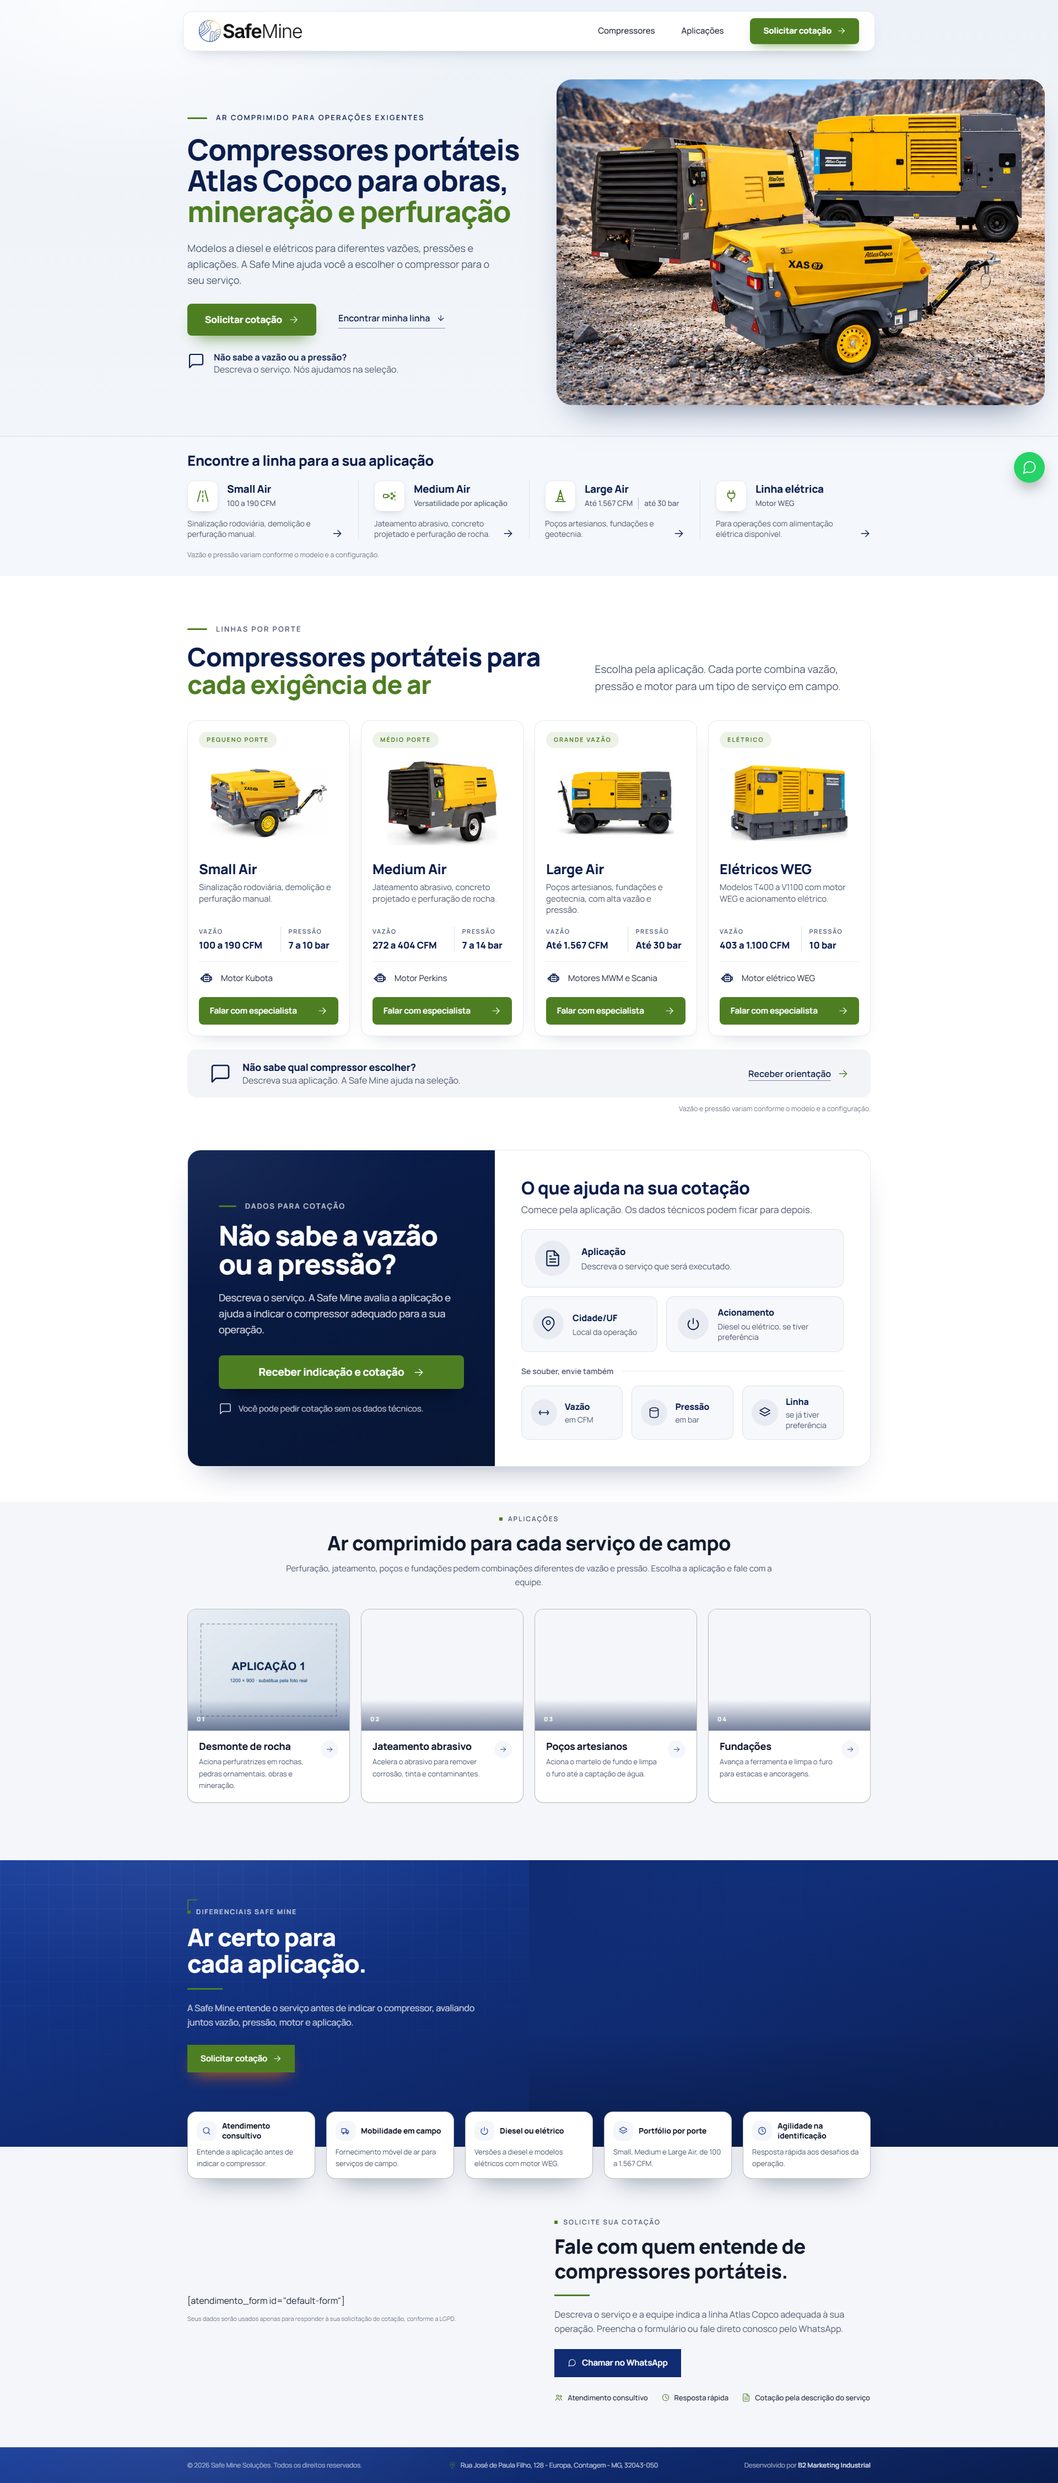
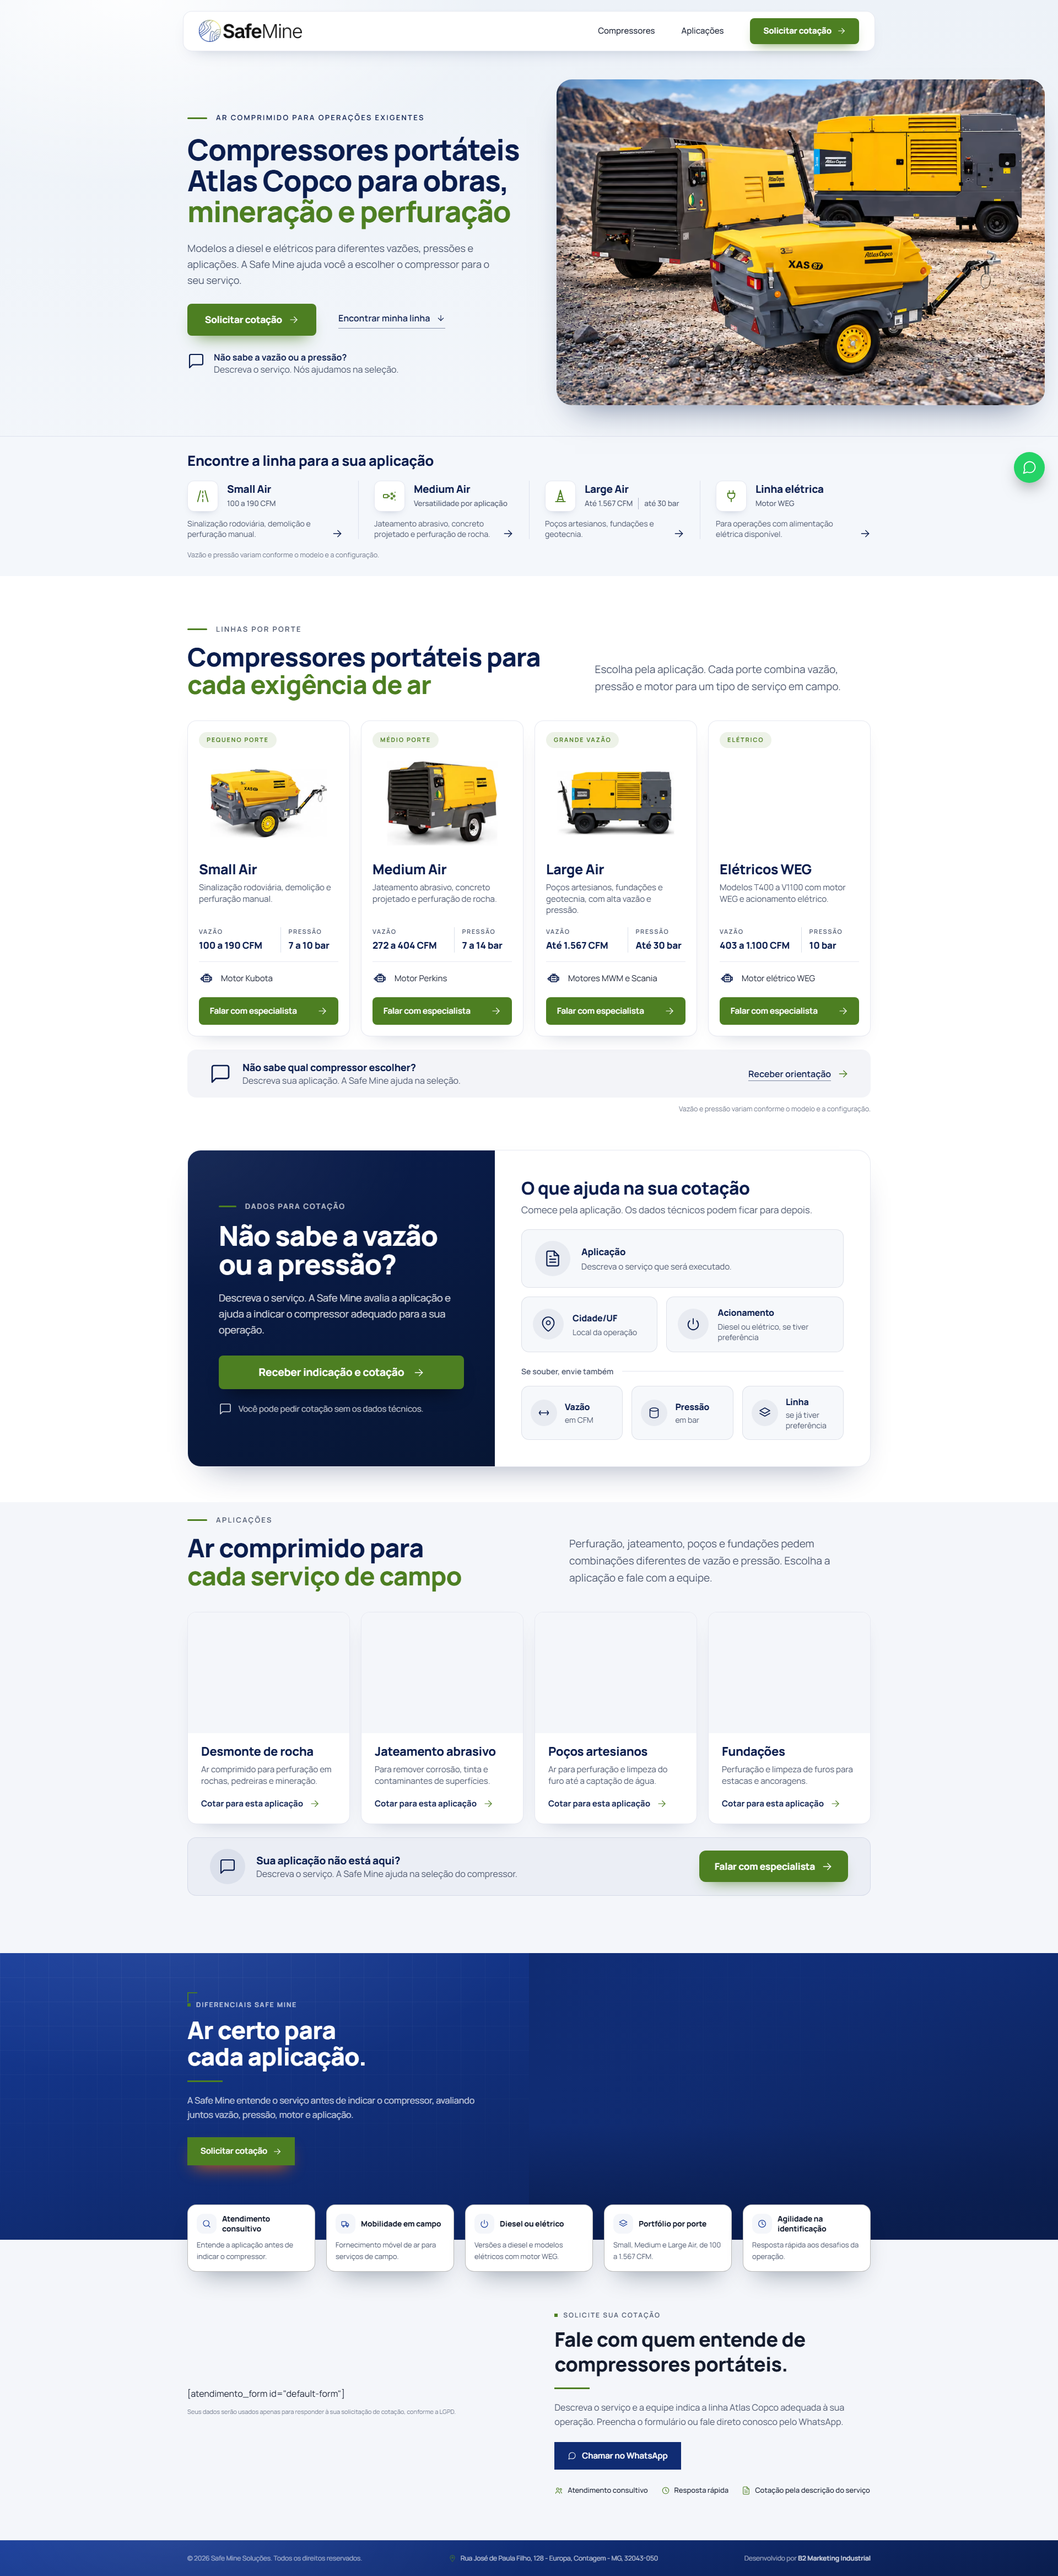
feat: seção de aplicações no layout do mockup — cards com foto e faixa de orientação
Cabeçalho em duas colunas com "cada serviço de campo" em verde; 4 cards brancos com
foto, descrição nova e "Cotar para esta aplicação" (o card inteiro segue como CTA);
faixa "Sua aplicação não está aqui?" com "Falar com especialista" (aplicacoes-outra).
Fotos provisórias recortadas do mockup. Componente da biblioteca alterado na LP —
registrado em docs/BRIEFING.md.

Changed region(s): [[0.0, 0.2486, 1.0, 0.9945], [0.1562, 0.0, 1.0, 0.2175]]

diff --git a/src/data/sections/aplicacoes.ts b/src/data/sections/aplicacoes.ts
@@ -1,7 +1,11 @@
 /**
  * Dados da seção "Aplicações" (biblioteca B2, fase: prova).
  *
- * 4 cards-botão com foto 4:3 e cabeçalho centrado. O card inteiro é o CTA.
+ * 4 cards-botão com foto 4:3. O card inteiro é o CTA.
+ *
+ * Nesta LP a seção segue o mockup de 29/10 (componente alterado — ver docs/BRIEFING.md).
+ * Fotos provisórias, recortadas do mockup (~400 px de largura útil): o slot `aplicacoes`
+ * segue em `assets.pendentes` até chegarem os originais 1200×900.
  *
  * As quatro aplicações que a campanha compra (perfuração, jateamento, mineração e
  * grande vazão). Fotos placeholder: slot `aplicacoes` em `assets.pendentes`, com
@@ -24,36 +28,48 @@ export interface Application {
 export const applications = {
   eyebrow: 'Aplicações',
   title: 'Ar comprimido para cada serviço de campo',
+  /** Trecho do título em verde, na segunda linha. */
+  titleHighlight: 'cada serviço de campo',
   text: 'Perfuração, jateamento, poços e fundações pedem combinações diferentes de vazão e pressão. Escolha a aplicação e fale com a equipe.',
+  /** Chamada no pé de cada card (o card inteiro é o botão). */
+  cardCta: 'Cotar para esta aplicação',
+  /** Faixa abaixo dos cards, para quem não se vê nas 4 aplicações. */
+  help: {
+    title: 'Sua aplicação não está aqui?',
+    text: 'Descreva o serviço. A Safe Mine ajuda na seleção do compressor.',
+  },
   items: [
     {
       id: 'desmonte-de-rocha',
       label: 'Desmonte de rocha',
-      description: 'Aciona perfuratrizes em rochas, pedras ornamentais, obras e mineração.',
+      description: 'Ar comprimido para perfuração em rochas, pedreiras e mineração.',
       photo: { src: app1, alt: 'Perfuração de rocha para desmonte' },
     },
     {
       id: 'jateamento',
       label: 'Jateamento abrasivo',
-      description: 'Acelera o abrasivo para remover corrosão, tinta e contaminantes.',
+      description: 'Para remover corrosão, tinta e contaminantes de superfícies.',
       photo: { src: app2, alt: 'Jateamento abrasivo em superfície metálica' },
     },
     {
       id: 'pocos-artesianos',
       label: 'Poços artesianos',
-      description: 'Aciona o martelo de fundo e limpa o furo até a captação de água.',
+      description: 'Ar para perfuração e limpeza do furo até a captação de água.',
       photo: { src: app3, alt: 'Perfuração de poço artesiano' },
     },
     {
       id: 'fundacoes',
       label: 'Fundações',
-      description: 'Avança a ferramenta e limpa o furo para estacas e ancoragens.',
+      description: 'Perfuração e limpeza de furos para estacas e ancoragens.',
       photo: { src: app4, alt: 'Perfuração para fundações e estacas' },
     },
   ],
 } as const satisfies {
   eyebrow: string
   title: string
+  titleHighlight: string
   text: string
+  cardCta: string
+  help: { title: string; text: string }
   items: readonly [Application, Application, Application, Application]
 }

diff --git a/docs/BRIEFING.md b/docs/BRIEFING.md
@@ -106,15 +106,15 @@ Derivada em: 29/10/2026 · comando aplicado: `npm run compose -- linhas identifi
 | Logo da barra | `src/assets/marca-safe-mine.png` | 841×180, fundo transparente | recortado do logo do site da Safe Mine (8000×2081)                    |
 | Foto do hero  | `src/assets/heroBg.png`          | 1020×721 (card)             | recorte do banner entregue em 29/10 com o mockup                      |
 
-| Asset                    | Arquivo esperado                             | Especificação                 | Status                                     |
-| ------------------------ | -------------------------------------------- | ----------------------------- | ------------------------------------------ |
-| Small Air                | `src/assets/linhas/linha-1.png`              | PNG 800×600 recortado         | provisória — recorte do mockup             |
-| Medium Air               | `src/assets/linhas/linha-2.png`              | PNG 800×600 recortado         | provisória — recorte do mockup             |
-| Large Air                | `src/assets/linhas/linha-3.png`              | PNG 800×600 recortado         | provisória — recorte do mockup             |
-| Elétricos WEG            | `src/assets/linhas/marcas.png`               | 800×600, fundo branco         | provisória — recorte do mockup             |
-| Aplicações 1–4           | `src/assets/aplicacoes/aplicacao-{1..4}.png` | 1200×900 (4:3)                | **pendentes** — direito de uso a confirmar |
-| Cenário dos diferenciais | `src/assets/diferenciais/cenario.jpg`        | 1600×900                      | **pendente**                               |
-| Pessoa dos diferenciais  | `src/assets/diferenciais/pessoa.png`         | 1220×1000, fundo transparente | **pendente**                               |
+| Asset                    | Arquivo esperado                             | Especificação                 | Status                                                      |
+| ------------------------ | -------------------------------------------- | ----------------------------- | ----------------------------------------------------------- |
+| Small Air                | `src/assets/linhas/linha-1.png`              | PNG 800×600 recortado         | provisória — recorte do mockup                              |
+| Medium Air               | `src/assets/linhas/linha-2.png`              | PNG 800×600 recortado         | provisória — recorte do mockup                              |
+| Large Air                | `src/assets/linhas/linha-3.png`              | PNG 800×600 recortado         | provisória — recorte do mockup                              |
+| Elétricos WEG            | `src/assets/linhas/marcas.png`               | 800×600, fundo branco         | provisória — recorte do mockup                              |
+| Aplicações 1–4           | `src/assets/aplicacoes/aplicacao-{1..4}.png` | 1200×900 (4:3)                | provisórias — recorte do mockup; direito de uso a confirmar |
+| Cenário dos diferenciais | `src/assets/diferenciais/cenario.jpg`        | 1600×900                      | **pendente**                                                |
+| Pessoa dos diferenciais  | `src/assets/diferenciais/pessoa.png`         | 1220×1000, fundo transparente | **pendente**                                                |
 
 As fotos de produto e de aplicação citadas no briefing estão no PPT "Atlas Copco – APE", que não está nesta máquina; a maioria dos recortes ficava abaixo da resolução pedida.
 
@@ -163,6 +163,14 @@ Também em 29/10/2026, o painel passou ao layout do mockup: card dividido, com b
 - Texto, reforço e itens foram atualizados na ficha e nos dados. O reforço do mockup ("Você pode pedir cotação sem ter os dados técnicos.") tem 50 caracteres e o contrato da seção aceita 48: entrou "Você pode pedir cotação sem os dados técnicos.".
 - Campos novos em `identificar.ts`, fora da ficha: `ctaLabel` e `list` (título, texto, rótulo do grupo opcional e o índice em que ele começa).
 - Ícones `file` e `pin` no lugar de `file-text` e `map-pin`: o validador da ficha só reconhece nomes de ícone sem hífen.
+
+### Seção "Aplicações"
+
+Também em 29/10/2026, a seção `aplicacoes` passou ao layout do mockup: cabeçalho em duas colunas com "cada serviço de campo" em verde; 4 cards brancos com foto, descrição nova e a chamada "Cotar para esta aplicação" (o card inteiro continua sendo o botão, `aplicacoes-{id}`); e a faixa "Sua aplicação não está aqui?" com o botão "Falar com especialista" (`aplicacoes-outra`). 4 colunas a partir de 1280 px; 2 abaixo disso.
+
+- O componente `src/components/sections/ApplicationsGallery.astro` foi alterado dentro da LP. **`npm run compose` o sobrescreve com o da biblioteca** — guarde-o antes de recompor.
+- As 4 descrições vieram do mockup, na ficha e nos dados. Campos novos em `aplicacoes.ts`: `titleHighlight`, `cardCta` e `help`.
+- **Fotos provisórias**: as 4 fotos de aplicação foram recortadas do mockup (cerca de 400 px de largura útil, ampliadas para 800×600). O slot `aplicacoes` continua em `assets.pendentes` até chegarem as fotos reais 1200×900, com o direito de uso confirmado.
 
 ## Dados não aplicados
 

diff --git a/docs/FICHA-LP.md b/docs/FICHA-LP.md
@@ -304,19 +304,19 @@ blocos:
     items:
       - id: desmonte-de-rocha
         label: Desmonte de rocha
-        description: Aciona perfuratrizes em rochas, pedras ornamentais, obras e mineração.
+        description: Ar comprimido para perfuração em rochas, pedreiras e mineração.
         photo: Perfuração de rocha para desmonte
       - id: jateamento
         label: Jateamento abrasivo
-        description: Acelera o abrasivo para remover corrosão, tinta e contaminantes.
+        description: Para remover corrosão, tinta e contaminantes de superfícies.
         photo: Jateamento abrasivo em superfície metálica
       - id: pocos-artesianos
         label: Poços artesianos
-        description: Aciona o martelo de fundo e limpa o furo até a captação de água.
+        description: Ar para perfuração e limpeza do furo até a captação de água.
         photo: Perfuração de poço artesiano
       - id: fundacoes
         label: Fundações
-        description: Avança a ferramenta e limpa o furo para estacas e ancoragens.
+        description: Perfuração e limpeza de furos para estacas e ancoragens.
         photo: Perfuração para fundações e estacas
 
   segmentos:
